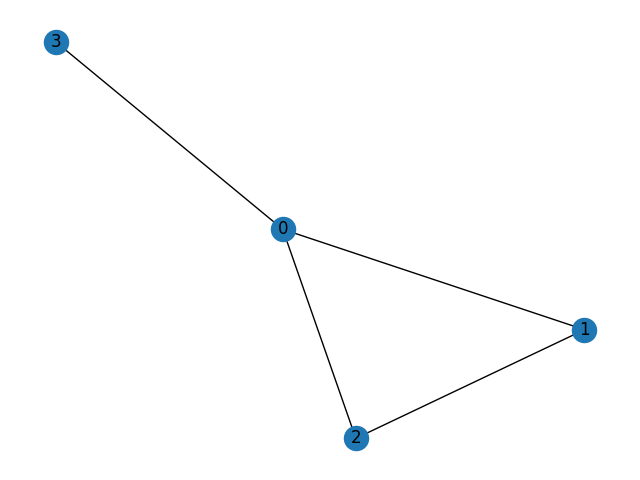
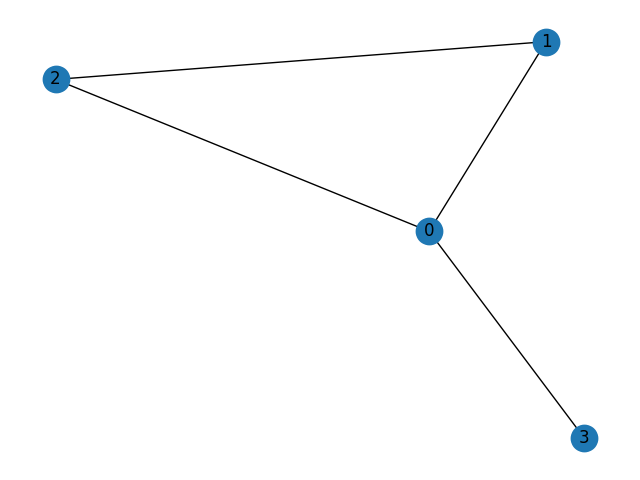
algo and data-struct in c++

diff --git a/ALGORITHMS-DATA-STRUCT/g-1.py b/ALGORITHMS-DATA-STRUCT/g-1.py
@@ -9,5 +9,8 @@ g.add_edge(0,2)
 g.add_edge(0,3)
 g.add_edge(1,2)
 
-nx.draw(g, with_labels = True)
+nx.draw(g, with_labels = True,node_size=100, alpha=1, linewidths=10)
+
 plt.savefig("./ALGORITHMS-DATA-STRUCT/img/graph0.png")
+x=nx.adjacency_matrix(g)
+print(x.todense())

diff --git a/ALGORITHMS-DATA-STRUCT/README.md b/ALGORITHMS-DATA-STRUCT/README.md
@@ -1,12 +1,18 @@
 ### Data Structure ###
 ## GRAPH ##
 > A graph data structure is a collection of nodes that have data and are connected to other nodes.
+> A Graph is a finite collection of objects and relations existing between objects. If we represent objects as vertices(or nodes) and relations as edges then we can get following two types of graph.
+- **Directed Graphs**: In directed graph, an edge is represented by an ordered pair of vertices (i,j) in which edge originates from vertex i and terminates on vertex j. Given below is an example of an directed graph.
+  ![graph](/ALGORITHMS-DATA-STRUCT/img/directedGraph.png)
+- **Undirected Graphs**: In Undireced graph, edges are represented by unordered pair of vertices.Given below is an example of an undirected graph.
+  ![graph](/ALGORITHMS-DATA-STRUCT/img/undirectedGraph.png)
+
 More precisely, a graph is a data structure (V, E) that consists of :
 - A collection of vertices V
 - A collection of edges E, represented as ordered pairs of vertices (u,v)
 # example off Graph : #
 
-![graph](/ALGORITHMS-DATA-STRUCT/img/graph0.png)
+![graph](/ALGORITHMS-DATA-STRUCT/img/graph-vertices-edges_0.webp)
 
 # in this graph : #
 ```
@@ -19,6 +25,12 @@ G = {V, E}
     - **Path** : A sequence of edges that allows you to go from vertex A to vertex B is called a path .0-1, 1-2 and 0-2 are paths from vertex 0 to vertex 2.
     - **Directed Graph**: A graph in which an edge (u,v) doesn't necessarily mean that there is an edge (v, u) as well. The edges in such a graph are represented by arrows to show the direction of the edge.
 - Graph Representation :
+    - **Adjacency Matrix** :Let us consider a graph in which there are N vertices numbered from 0 to N-1 and E number of edges in the form (i,j). Where (i,j) represent an edge originating from ith vertex and terminating on jth vertex. Now, A Adjacency Matrix is a N*N binary matrix in which value of [i,j]th cell is 1 if there exists an edge originating from ith vertex and terminating to jth vertex, otherwise the value is 0.
+  
+    ![graph](/ALGORITHMS-DATA-STRUCT/img/adjacency-matrix_1.webp)
+
+    - **Adjacency List** :Lets consider a graph in which there are N vertices numbered from 0 to N-1 and E number of edges in the form (i,j). Where (i,j) represent an edge from ith vertex to jth vertex. Now, Adjacency List is an array of seperate lists. Each element of array is a list of corresponding neighbour(or directly connected) vertices.In other words ith list of Adjacency List is a list of all those vertices which is directly connected to ith vertex.
+    ![graph](/ALGORITHMS-DATA-STRUCT/img/adjacency-list.webp)
 > Graphs are commonly represented in two ways:
     - 
 - Graph Operations :
